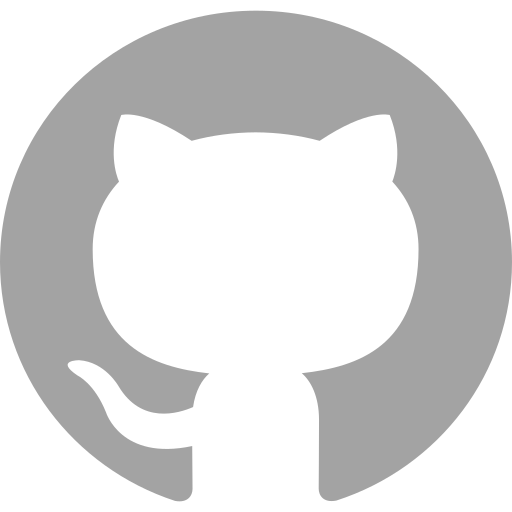
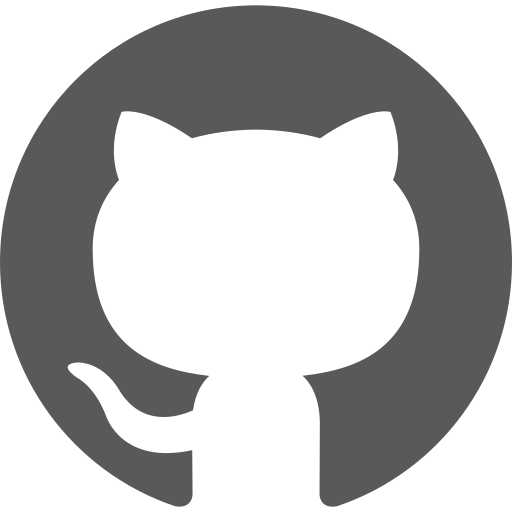
Component sep, Exp comp & animation undone

diff --git a/my-portfolio/src/Experience.js b/my-portfolio/src/Experience.js
@@ -1,51 +1,111 @@
 import React from 'react'
-import subtitle from './subtitle'
+import Skills from './Components/Skills'
+import ExperienceData from './Components/ExperienceData'
 
 function Experience() {
+
+
   return (
     <div id="experience" className='Experience-Content mx-10'>
 
       <div className="ExpDesc flex flex-col flex-1 p-6">
 
         <div>
-          <h3 className='text-xl text-beige-purple font-semibold lg:invisible'>Experience</h3>
+          <h3 className='text-xl text-beige-purple font-semibold mb-4 lg:invisible'>Experience</h3>
 
         </div>
 
 
-        <div className='flex flex-row mt-4 2xl:text-2xl'>
+        <div className='flex flex-col lg:flex-row my-6 lg:mt-12 2xl:text-2xl'>
 
-          <div className='flex-1/2 mr-5'>
-            <span>2022-present</span>
+          <div className='flex-1/2 mb-2 lg:mr-2 lg:mt-1 w-50'>
+            <span>2023 Jan - Present</span>
           </div>
-          <div className='flex-1'>
-            <h3 className='text-xl text-beige-purple 2xl:text-3xl'>QA Automation Engineer . Millennium</h3>
+          <div className='flex-1 lg:ml-5'>
+            <h3 className='text-xl mb-2 text-beige-purple 2xl:text-3xl'>QA Automation Engineer . Millennium</h3>
             <p className='text-beige-purple2'>I am a QA Engineer who bags 2+ years of experience in software quality assurance. The areas I explored spans but not limited to :
 
-              • API testing
-              • Mobile Application Testing ( Android | iOS )
-              • Web Application Testing
-              • Test plans and Test Case Creation
-              • Test Case Maintenance
-              • Gap Analysis and Requirement Traceability Matrix
-              • Analyzing Business Requirements
-              • Suggesting changes for betterment of product
-              • Documentation and giving Demo
 
-              Domains :-
-              • Payments
-              • Chatbot
-              • Embedded Automotive</p>
+            </p>
+
+            <div className='flex flex-row'>
+              <Skills>React</Skills>
+              <Skills>CSS</Skills>
+              <Skills>Javascript</Skills>
+            </div>
+
           </div>
 
+
+
         </div>
+
+        <div className='flex flex-col lg:flex-row my-6 lg:mt-12 2xl:text-2xl'>
+
+          <div className='flex-1/2 mb-2 lg:mr-2 lg:mt-1 w-50'>
+            <span>2023 Jan - Present</span>
+          </div>
+          <div className='flex-1 lg:ml-5'>
+            <h3 className='text-xl mb-2 text-beige-purple 2xl:text-3xl'>QA Automation Engineer . Millennium</h3>
+            <p className='text-beige-purple2'>I am a QA Engineer who bags 2+ years of experience in software quality assurance. The areas I explored spans but not limited to :
+
+
+            </p>
+
+            <div className='flex flex-row'>
+              <Skills>React</Skills>
+              <Skills>CSS</Skills>
+              <Skills>Javascript</Skills>
+            </div>
+
+          </div>
+
+
+
+        </div>
+
+        <div className='flex flex-col lg:flex-row my-6 lg:mt-12 2xl:text-2xl'>
+
+          <div className='flex-1/2 mb-2 lg:mr-2 lg:mt-1 w-50'>
+            <span>2023 Jan - Present</span>
+          </div>
+          <div className='flex-1 lg:ml-5'>
+            <h3 className='text-xl mb-2 text-beige-purple 2xl:text-3xl'>QA Automation Engineer . Millennium</h3>
+            <p className='text-beige-purple2'>I am a QA Engineer who bags 2+ years of experience in software quality assurance. The areas I explored spans but not limited to :
+
+
+            </p>
+
+            <div className='flex flex-row'>
+              <Skills>React</Skills>
+              <Skills>CSS</Skills>
+              <Skills>Javascript</Skills>
+            </div>
+
+          </div>
+
+
+
+        </div>
+
+        {/*
+        
+        PASS VALUE DYNAMIC
+
+        <ExperienceData>{{duration:'2023' , jobrole:'Tester' , jobDesc:'Desc'}}</ExperienceData>  */}
+
+
+        {/* Make Experience Dynamic and Give View full resume inside Experience to align with design & alignment  */}
+
+        <div className='resume mt-6 text-lg font-semibold'>
+          View full resume -{'>'}
+        </div>
+
+
 
 
       </div>
 
-
-      {/* Responsive upto Mobile view. By default flex:col ensures it will target mobile devices. From breaking point 'md' and above 
-              we'll specify different. */}
 
     </div>
   )

diff --git a/my-portfolio/src/Works.js b/my-portfolio/src/Works.js
@@ -2,34 +2,70 @@ import React from 'react'
 
 function Works() {
   return (
-    <div id="works" className='Works-Content  mx-10'>
+    <div id="works" className='Experience-Content mx-10'>
 
-    <div className="AboutDesc flex flex-col flex-1 p-6 2xl:text-2xl">
-    <h3 className='text-xl text-beige-purple font-semibold lg:invisible'>Works</h3>
-      <p className='text-beige-purple2 mt-4'>I am a QA Engineer who bags 2+ years of experience in software quality assurance. The areas I explored spans but not limited to :
+      <div className="WorkDesc flex flex-col flex-1 p-6">
 
-        • API testing
-        • Mobile Application Testing ( Android | iOS )
-        • Web Application Testing
-        • Test plans and Test Case Creation
-        • Test Case Maintenance
-        • Gap Analysis and Requirement Traceability Matrix
-        • Analyzing Business Requirements
-        • Suggesting changes for betterment of product
-        • Documentation and giving Demo
+        <div>
+          <h3 className='text-xl text-beige-purple font-semibold mb-4 lg:invisible'>Projects</h3>
 
-        Domains :-
-        • Payments
-        • Chatbot
-        • Embedded Automotive</p>
+        </div>
+
+
+        <div className='flex flex-col-reverse lg:flex-row mt-4 lg:mt-12 2xl:text-2xl'>
+
+          <div className='flex-1/2 my-4 lg:mr-2 lg:mt-2 w-50'>
+            <img src='\Images\netflix.jpg' className='w-[133px]' />
+          </div>
+          <div className='flex-1 lg:ml-5'>
+            <h3 className='text-xl mb-2 text-beige-purple 2xl:text-3xl'>Netflix Clone -{'>'}</h3>
+            <p className='text-beige-purple2'>I am a QA Engineer who bags 2+ years of experience in software quality assurance. The areas I explored spans but not limited to :
+
+              • API testing
+              • Mobile Application Testing ( Android | iOS )
+              • Web Application Testing
+              • Test plans and Test Case Creation
+            </p>
+
+
+          </div>
+
+
+
+        </div>
+
+        <div className='flex flex-col-reverse lg:flex-row mt-4 lg:mt-12 2xl:text-2xl'>
+
+<div className='flex-1/2 my-4 lg:mr-2 lg:mt-2 w-50'>
+  <img src='\Images\netflix.jpg' className='w-[133px]' />
+</div>
+<div className='flex-1 lg:ml-5'>
+  <h3 className='text-xl mb-2 text-beige-purple 2xl:text-3xl'>Netflix Clone -{'>'}</h3>
+  <p className='text-beige-purple2'>I am a QA Engineer who bags 2+ years of experience in software quality assurance. The areas I explored spans but not limited to :
+
+    • API testing
+    • Mobile Application Testing ( Android | iOS )
+    • Web Application Testing
+    • Test plans and Test Case Creation
+  </p>
+
+
+</div>
+
+
+
+</div>
+        {/*
+      
+      PASS VALUE DYNAMIC
+
+      <ExperienceData>{{duration:'2023' , jobrole:'Tester' , jobDesc:'Desc'}}</ExperienceData>  */}
+
+
+      </div>
+
     </div>
-
-
-    {/* Responsive upto Mobile view. By default flex:col ensures it will target mobile devices. From breaking point 'md' and above 
-          we'll specify different. */}
-
-  </div>
-)
+  )
 }
 
 export default Works

diff --git a/my-portfolio/src/Header.js b/my-portfolio/src/Header.js
@@ -1,4 +1,5 @@
 import React from 'react'
+import Nav from './Components/Nav'
 
 function Header() {
   return (
@@ -10,23 +11,20 @@ function Header() {
         <h2 className='text-2xl mt-4 2xl:text-3xl text-beige-purple2'>Front End</h2>
         <p className='text-beige-purple2 mt-4 max-w-xs 2xl:text-2xl'>Iam web developer typesetting industry. Lorem Ipsum has been the industry's standard dummy text ever since the 1500.</p>
 
-        <div className="headerMenu">
-          <nav>
-            <ul className='flex flex-row flex-1 items-left md:flex md:flex-col md:flex-1 2xl:text-2xl'>
-              <li className='p-2'><a href='#about'>-About</a></li>
-              <li className='p-2'><a href='#experience'>-Experience</a></li>
-              <li className='p-2'><a href='#works'>-Projects</a></li>
-            </ul>
-          </nav>
+        <div className="headerMenu mt-2 flex flex-row flex-1 items-left md:flex md:flex-col md:flex-1 2xl:text-2xl">
 
+          <Nav href='#about'>--About</Nav>
+          <Nav href='#experience'>--Experience</Nav>
+          <Nav href='#works'>--Projects</Nav>
+          
         </div>
 
         <div className="headerSocialMedia">
           <nav>
-            <ul className='flex flex-row items-center sticky bottom-0'>
-              <li className='p-2 w-10 lg:w-12'><a href='#experience'><img src='\Images\mail.png' alt='Email icon'></img></a></li>
-              <li className='p-2 w-9 lg:w-11'><a href='#experience'><img src='\Images\instagram.png' alt='Email icon'></img></a></li>
-              <li className='p-2 w-9 lg:w-11'><a href='#experience'><img src='\Images\github.png' alt='Email icon'></img></a></li>
+            <ul className='flex flex-row items-center mt-12'>
+              <li className='p-2 w-10 lg:w-12'><a href='#experience'><img src='\Images\mailgrey.png' alt='Email icon'></img></a></li>
+              <li className='p-2 w-10 lg:w-12'><a href='#experience'><img src='\Images\linkedingrey.png' alt='Email icon'></img></a></li>
+              <li className='p-2 w-10 lg:w-12'><a href='#experience'><img src='\Images\githubgrey.png' alt='Email icon'></img></a></li>
             </ul>
           </nav>
 

diff --git a/my-portfolio/src/About.js b/my-portfolio/src/About.js
@@ -5,8 +5,8 @@ function About() {
     <div id="about" className="About-Content mx-10">
 
       <div className="AboutDesc flex flex-col flex-1 p-6">
-        <h1 className='text-xl text-beige-purple font-semibold lg:invisible'>About</h1>
-        <p className='text-beige-purple2 mt-4 2xl:text-2xl'>I am a QA Engineer who bags 2+ years of experience in software quality assurance. The areas I explored spans but not limited to :
+        <h1 className='text-xl text-beige-purple font-semibold mt-4 lg:invisible'>About</h1>
+        <p className='text-beige-purple2 2xl:text-2xl'>I am a QA Engineer who bags 2+ years of experience in software quality assurance. The areas I explored spans but not limited to :
 
           • API testing
           • Mobile Application Testing ( Android | iOS )

diff --git a/my-portfolio/src/Components/ExperienceData.js b/my-portfolio/src/Components/ExperienceData.js
@@ -1,0 +1,28 @@
+import React from 'react'
+import Skills from './Skills'
+
+function ExperienceData({ duration, jobrole, jobDesc }) {
+
+    return (
+        <div>
+
+            <div className='flex-1/2 mr-5 mt-1'>
+                <span>{duration}</span>
+            </div>
+            <div className='flex-1 ml-5'>
+                <h3 className='text-xl text-beige-purple 2xl:text-3xl'>{jobrole}</h3>
+                <p className='text-beige-purple2'>{jobDesc}</p>
+
+                {/* <div className='flex flex-row'>
+                    <Skills>React</Skills>
+                    <Skills>CSS</Skills>
+                    <Skills>Javascript</Skills>
+                </div> */}
+
+            </div>
+
+        </div>
+    )
+}
+
+export default ExperienceData

diff --git a/my-portfolio/src/App.js b/my-portfolio/src/App.js
@@ -20,12 +20,10 @@ function App() {
 
           <div className='lg:ml-40'>
 
-            <div className='Contents lg:max-w-3xl lg:ml-80'>
+            <div className='Contents mb-10 lg:max-w-3xl lg:ml-80'>
               <About />
               <Experience />
-              <Experience />
-              <Experience />
-              <Experience />
+
               <Works />
 
 

diff --git a/my-portfolio/src/Components/Nav.js b/my-portfolio/src/Components/Nav.js
@@ -1,0 +1,15 @@
+import React from 'react'
+import NavItems from './NavItems'
+
+function Nav(props) {
+    const {children, href} = props
+    return (
+        <nav>
+            <ul className='NavItems'>
+                <NavItems  href = {href}>{children}</NavItems>
+            </ul>
+        </nav>
+    )
+}
+
+export default Nav

diff --git a/my-portfolio/src/Components/Skills.js b/my-portfolio/src/Components/Skills.js
@@ -1,0 +1,12 @@
+import React from 'react'
+
+function Skills(props) {
+
+    const {children} = props
+
+  return (
+    <div className='skills rounded-full border-2 w-fit p-2 my-3 mr-4 bg-beige-purple text-navyblue-100 font-medium'>{children}</div>
+  )
+}
+
+export default Skills

diff --git a/my-portfolio/src/Components/NavItems.js b/my-portfolio/src/Components/NavItems.js
@@ -1,0 +1,10 @@
+import React from 'react'
+
+function NavItems(props) {
+    const {href, children} = props
+    return (
+        <li className='mr-10 my-5'><a href={href}>{children}</a></li>
+    )
+}
+
+export default NavItems

diff --git a/my-portfolio/tailwind.config.js b/my-portfolio/tailwind.config.js
@@ -5,6 +5,9 @@ module.exports = {
     extend: {
       margin : {
         '50px' : '50px'
+      },
+      width: {
+        '133px': '133px',
       }
     },
     colors: {
